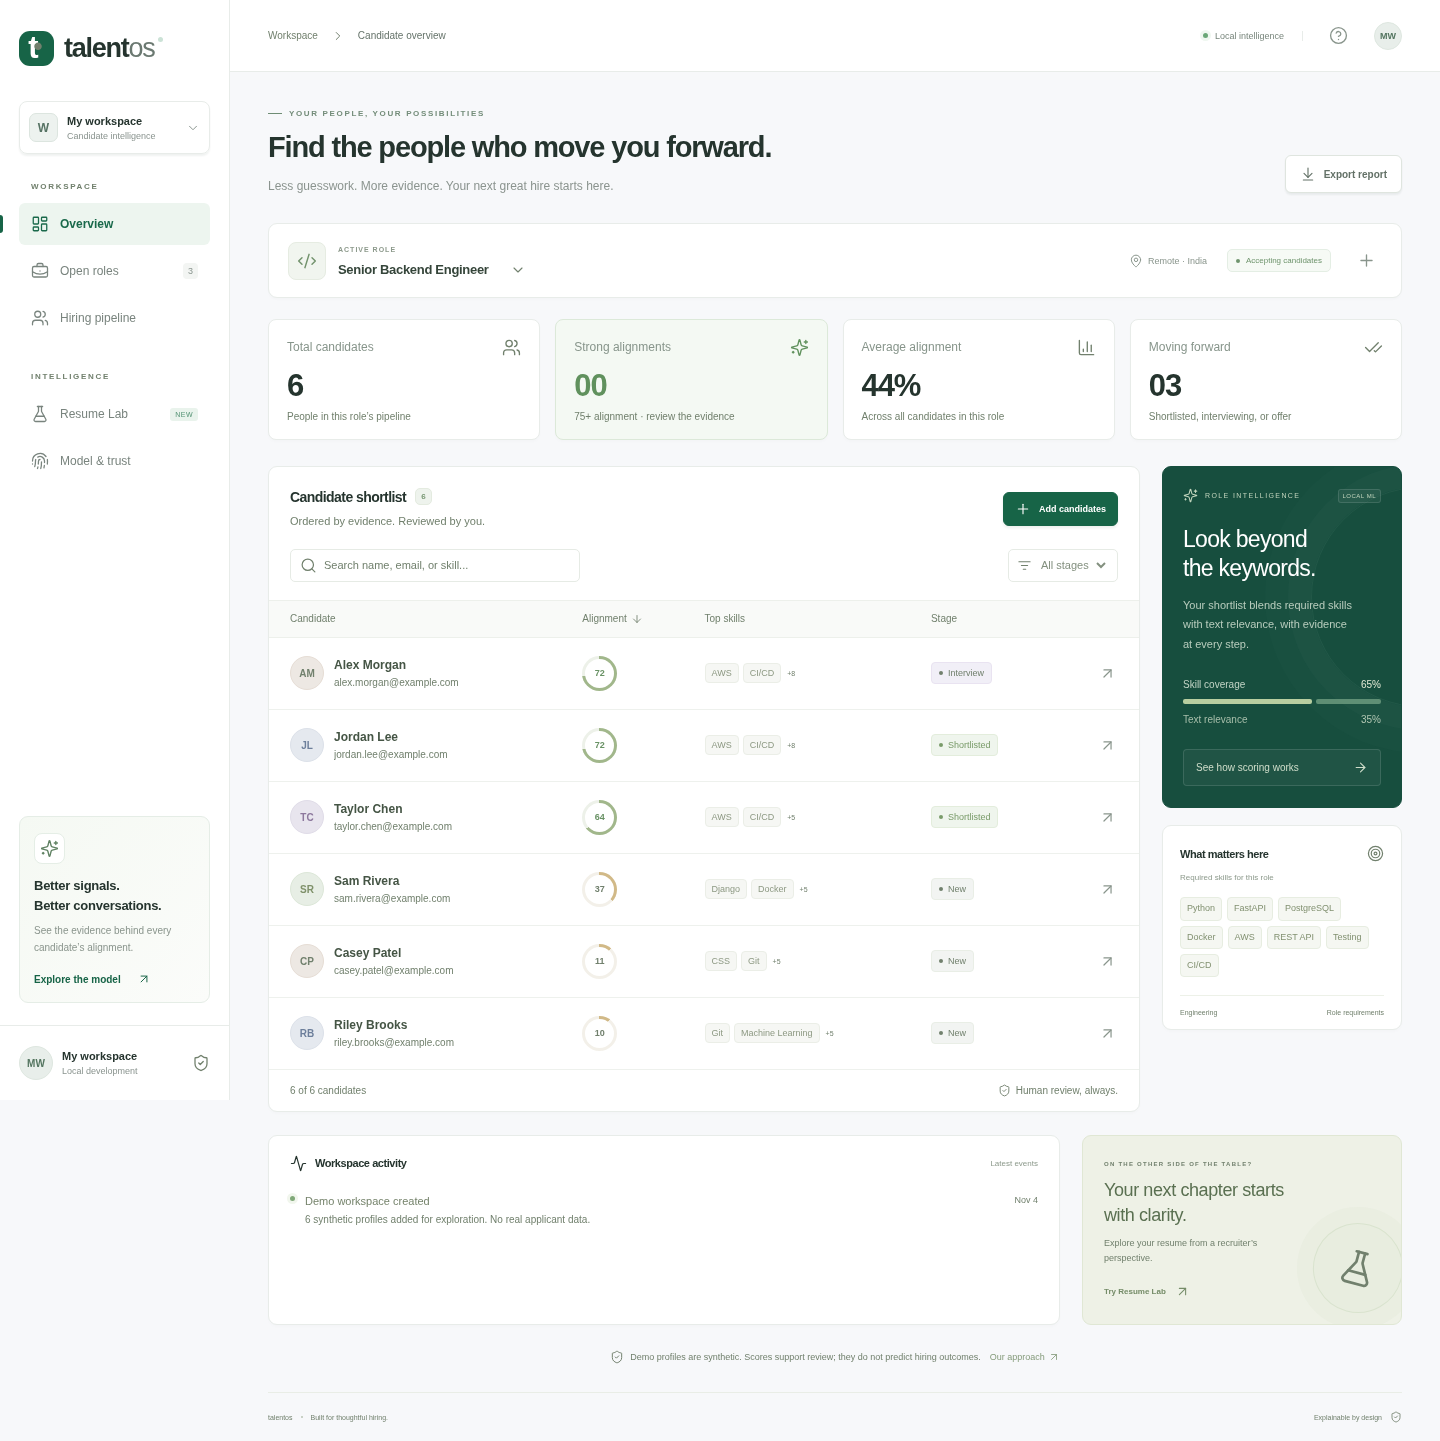
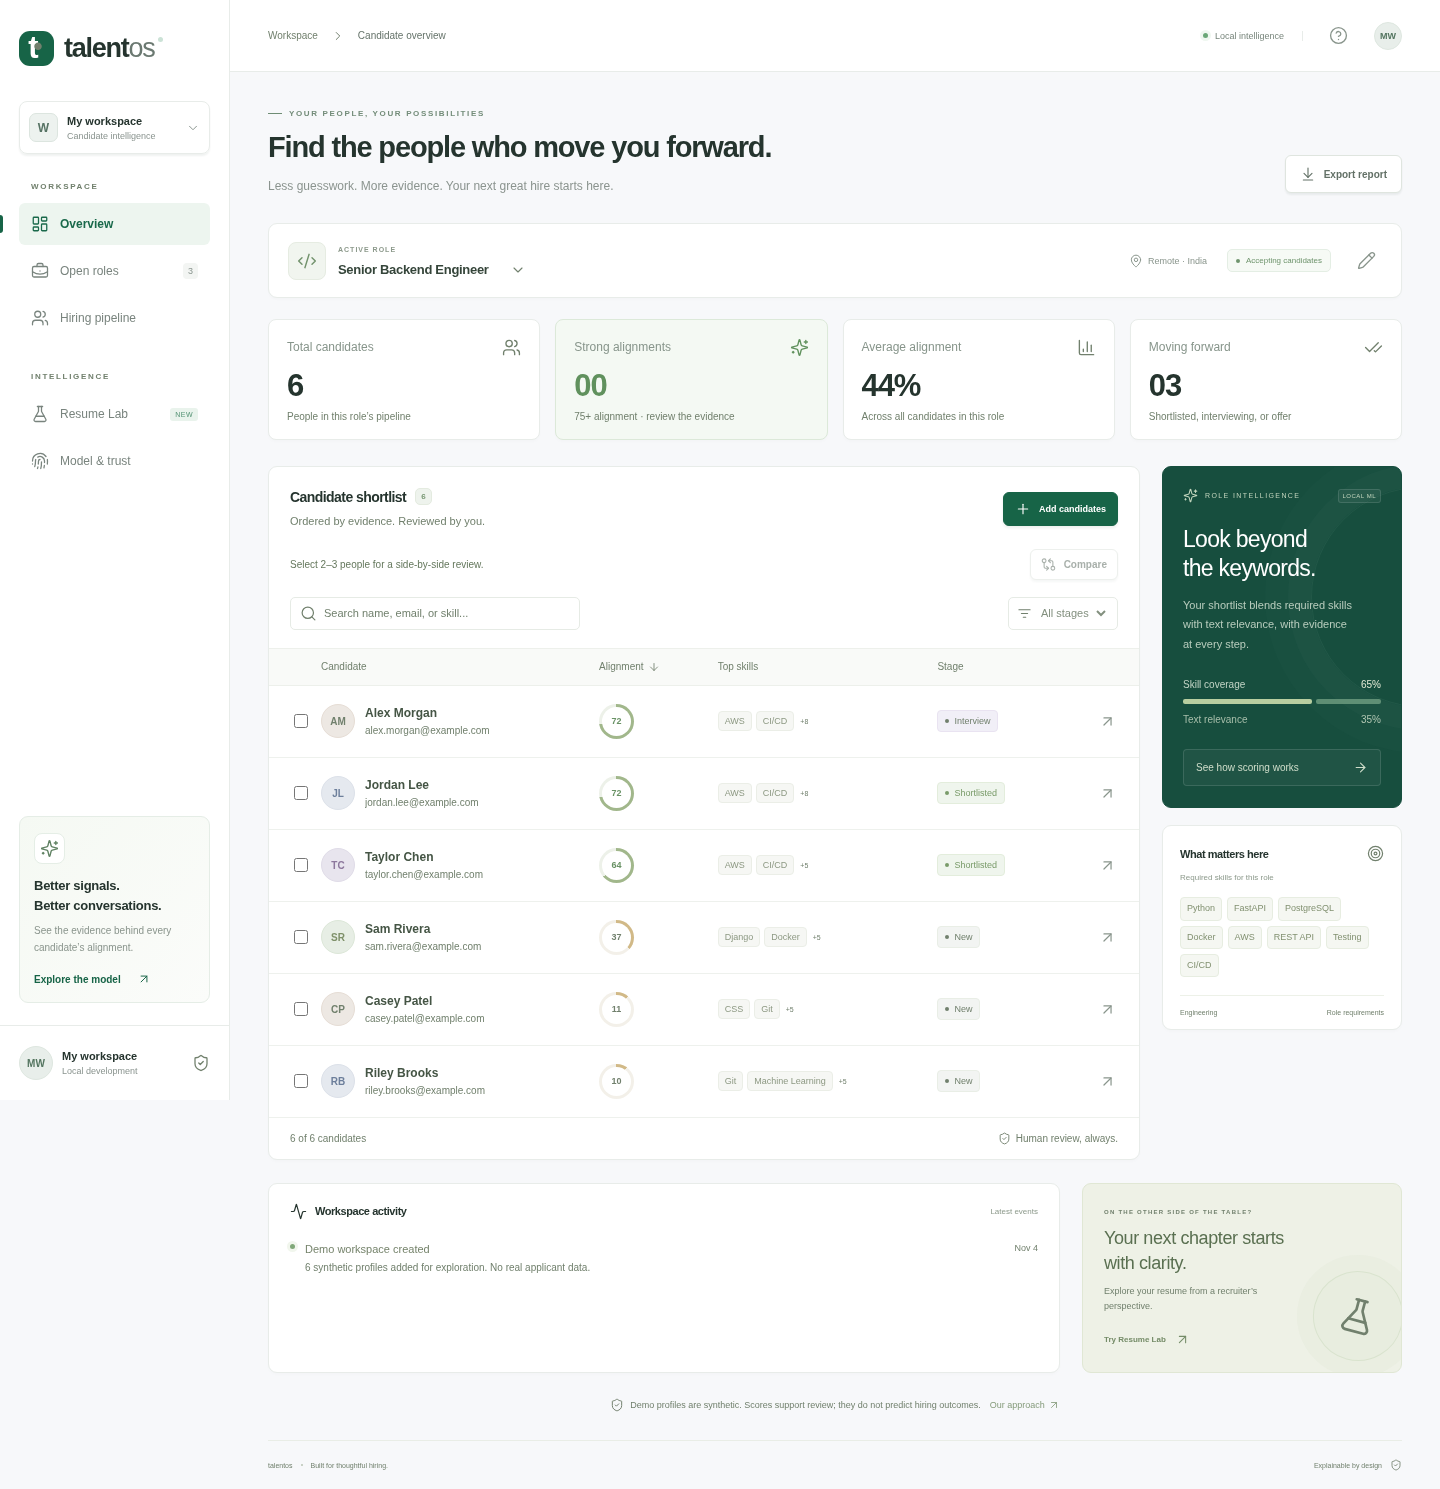
Add isolated production-stack smoke checks to CI

diff --git a/scripts/smoke_compose.py b/scripts/smoke_compose.py
@@ -1,0 +1,145 @@
+"""Validate an isolated production stack; all containers and volumes are disposable."""
+
+import json
+import os
+import secrets
+import socket
+import subprocess
+import time
+import urllib.error
+import urllib.request
+from pathlib import Path
+
+root = Path(__file__).resolve().parent.parent
+docker = ["docker", "--host=unix:///var/run/docker.sock"]
+command = docker + [
+    "compose",
+    "-p",
+    "talentos-check-" + secrets.token_hex(4),
+    "-f",
+    str(root / "compose.yaml"),
+]
+environment = {
+    key: value
+    for key, value in os.environ.items()
+    if key
+    not in ("DOCKER_HOST", "DOCKER_CONTEXT", "DOCKER_TLS", "DOCKER_TLS_VERIFY", "DOCKER_CERT_PATH")
+}
+environment["TALENT_API_KEY"] = secrets.token_urlsafe(40)
+environment["TALENT_DB_PASSWORD"] = secrets.token_urlsafe(36)
+with socket.socket() as port_socket:
+    port_socket.bind(("127.0.0.1", 0))
+    port = port_socket.getsockname()[1]
+environment["TALENT_HTTP_PORT"] = str(port)
+base = f"http://127.0.0.1:{port}"
+
+
+def api(path, method="GET", data=None, authenticated=True, content_type="application/json"):
+    headers = {"Content-Type": content_type}
+    if authenticated:
+        headers["Authorization"] = "Bearer " + environment["TALENT_API_KEY"]
+    request = urllib.request.Request(base + path, data=data, method=method, headers=headers)
+    with urllib.request.urlopen(request, timeout=30) as response:
+        body = response.read()
+        return response.status, json.loads(body) if body else None
+
+
+try:
+    result = subprocess.run(
+        command + ["up", "-d", "--no-build", "--wait", "--wait-timeout", "120"],
+        env=environment,
+        capture_output=True,
+        text=True,
+    )
+    if result.returncode:
+        # Compose logs list service names and errors, not environment values.
+        safe = result.stderr
+        for secret in ("TALENT_API_KEY", "TALENT_DB_PASSWORD"):
+            safe = safe.replace(environment[secret], "[redacted]")
+        print(safe)
+        raise RuntimeError("Production stack did not become healthy")
+    assert api("/api/health", authenticated=False)[1] == {"status": "ok"}
+    try:
+        api("/api/jobs", authenticated=False)
+    except urllib.error.HTTPError as exc:
+        assert exc.code == 401
+    else:
+        raise AssertionError("Auth boundary missing")
+    role = api(
+        "/api/jobs",
+        "POST",
+        json.dumps(
+            {
+                "title": "Production integration role",
+                "description": "Build Python FastAPI services with Docker and AWS. Add unit testing.",
+            }
+        ).encode(),
+    )[1]
+    boundary = "talentos-integration"
+    body = (
+        f'--{boundary}\r\nContent-Disposition: form-data; name="files"; filename="resume.txt"\r\nContent-Type: text/plain\r\n\r\nJamie Example\njamie@example.com\nSkills\nPython FastAPI Docker AWS\nExperience\nBuilt REST APIs and shipped tested services.\r\n--{boundary}--\r\n'
+    ).encode()
+    candidate = api(
+        f"/api/jobs/{role['id']}/candidates",
+        "POST",
+        body,
+        content_type=f"multipart/form-data; boundary={boundary}",
+    )[1]["added"][0]
+    assert candidate["profile"]["name"] == "Jamie Example"
+    first = api(
+        f"/api/candidates/{candidate['id']}",
+        "PATCH",
+        json.dumps(
+            {
+                "version": candidate["version"],
+                "notes": "Durable across restart.",
+                "stage": "Interview",
+            }
+        ).encode(),
+    )[1]
+    try:
+        api(
+            f"/api/candidates/{candidate['id']}",
+            "PATCH",
+            json.dumps({"version": candidate["version"], "notes": "Stale write"}).encode(),
+        )
+    except urllib.error.HTTPError as exc:
+        assert exc.code == 409
+    else:
+        raise AssertionError("Stale update accepted")
+    subprocess.run(command + ["restart", "api"], env=environment, check=True, capture_output=True)
+    for _ in range(40):
+        try:
+            restored = api(f"/api/candidates/{candidate['id']}")[1]
+            break
+        except (OSError, urllib.error.HTTPError):
+            time.sleep(0.5)
+    else:
+        raise RuntimeError("API did not recover after restart")
+    assert restored["notes"] == "Durable across restart."
+    assert restored["stage"] == "Interview"
+    role = api("/api/jobs")[1][0]
+    assert api(f"/api/jobs/{role['id']}?version={role['version']}", "DELETE")[0] == 204
+    assert api("/api/jobs")[1] == []
+    print(
+        "Production Compose passed: PostgreSQL migrations, nginx ingress, auth, limited document extraction, version conflict, persistence across restart, cascading deletion."
+    )
+except Exception:
+    diagnostic = subprocess.run(
+        command + ["logs", "--tail", "30", "gateway", "api"],
+        env=environment,
+        capture_output=True,
+        text=True,
+    )
+    safe = diagnostic.stdout + diagnostic.stderr
+    for secret in ("TALENT_API_KEY", "TALENT_DB_PASSWORD"):
+        safe = safe.replace(environment[secret], "[redacted]")
+    print(safe)
+    raise
+finally:
+    subprocess.run(
+        command + ["down", "--volumes", "--remove-orphans"],
+        env=environment,
+        stdout=subprocess.DEVNULL,
+        stderr=subprocess.DEVNULL,
+    )

diff --git a/docs/VALIDATION.md b/docs/VALIDATION.md
@@ -32,6 +32,12 @@ npm run test:e2e
 
 The base URL can be changed through `TALENT_E2E_URL`. `PLAYWRIGHT_CHROMIUM_EXECUTABLE` selects an already installed Chromium executable. Tests create synthetic test roles and update demo notes; never target a real hiring workspace. No authenticated production workspace is used by this browser suite.
 
+## Reproduce production-stack checks
+
+Build `talentos:local` from the Dockerfile, then run `python scripts/smoke_compose.py`. The script uses the local Docker socket, a random loopback port, a unique Compose project, temporary credentials, and disposable volumes. It validates PostgreSQL migrations, nginx-to-API readiness, authentication, document processing, stale-write rejection, persistence after API restart, and role deletion. Its `finally` block removes only that test project. A port-allocation collision fails the test rather than targeting another deployment.
+
+The SQLite backup command was also exercised: the snapshot passed integrity checks, retained committed rows, and refused to overwrite an existing backup.
+
 ## Boundaries
 
 These results verify the current cloud machine and a local container. They do not establish a published deployment, fresh-task restoration, load capacity, WCAG conformance, security certification, or accuracy/fairness on real applicant data. The backend suite uses temporary databases and includes controlled score invariance checks rather than a production model benchmark. See the model card and architecture document for limitations.

diff --git a/README.md b/README.md
@@ -42,12 +42,14 @@ Local settings can be loaded with `--env-file .env` after copying `.env.example`
 
 ```bash
 python -m pytest -q
-ruff check backend migrations tests
-ruff format --check backend migrations tests
+ruff check backend migrations scripts tests
+ruff format --check backend migrations scripts tests
 npm run build --prefix frontend
 ```
 
 Integration tests cover TXT/DOCX/PDF parsing, email preservation, invalid and oversized files, decompression limits, duplicate handling, persistence, stage transitions, candidate deletion, transient Resume Lab analysis, authentication, and rate limiting. Ranking tests check relevance ordering, score bounds, deterministic results, evidence, and contact/name invariance on controlled examples. These are engineering checks, not an accuracy or fairness certification on real applicants.
+
+Production deployment checks run with `python scripts/smoke_compose.py` after building `talentos:local`; the script creates and removes its own isolated test stack. CI runs this check as a separate quality gate.
 
 Browser smoke tests are in `frontend/e2e/`; see [validation](docs/VALIDATION.md) for commands and observed results.
 
